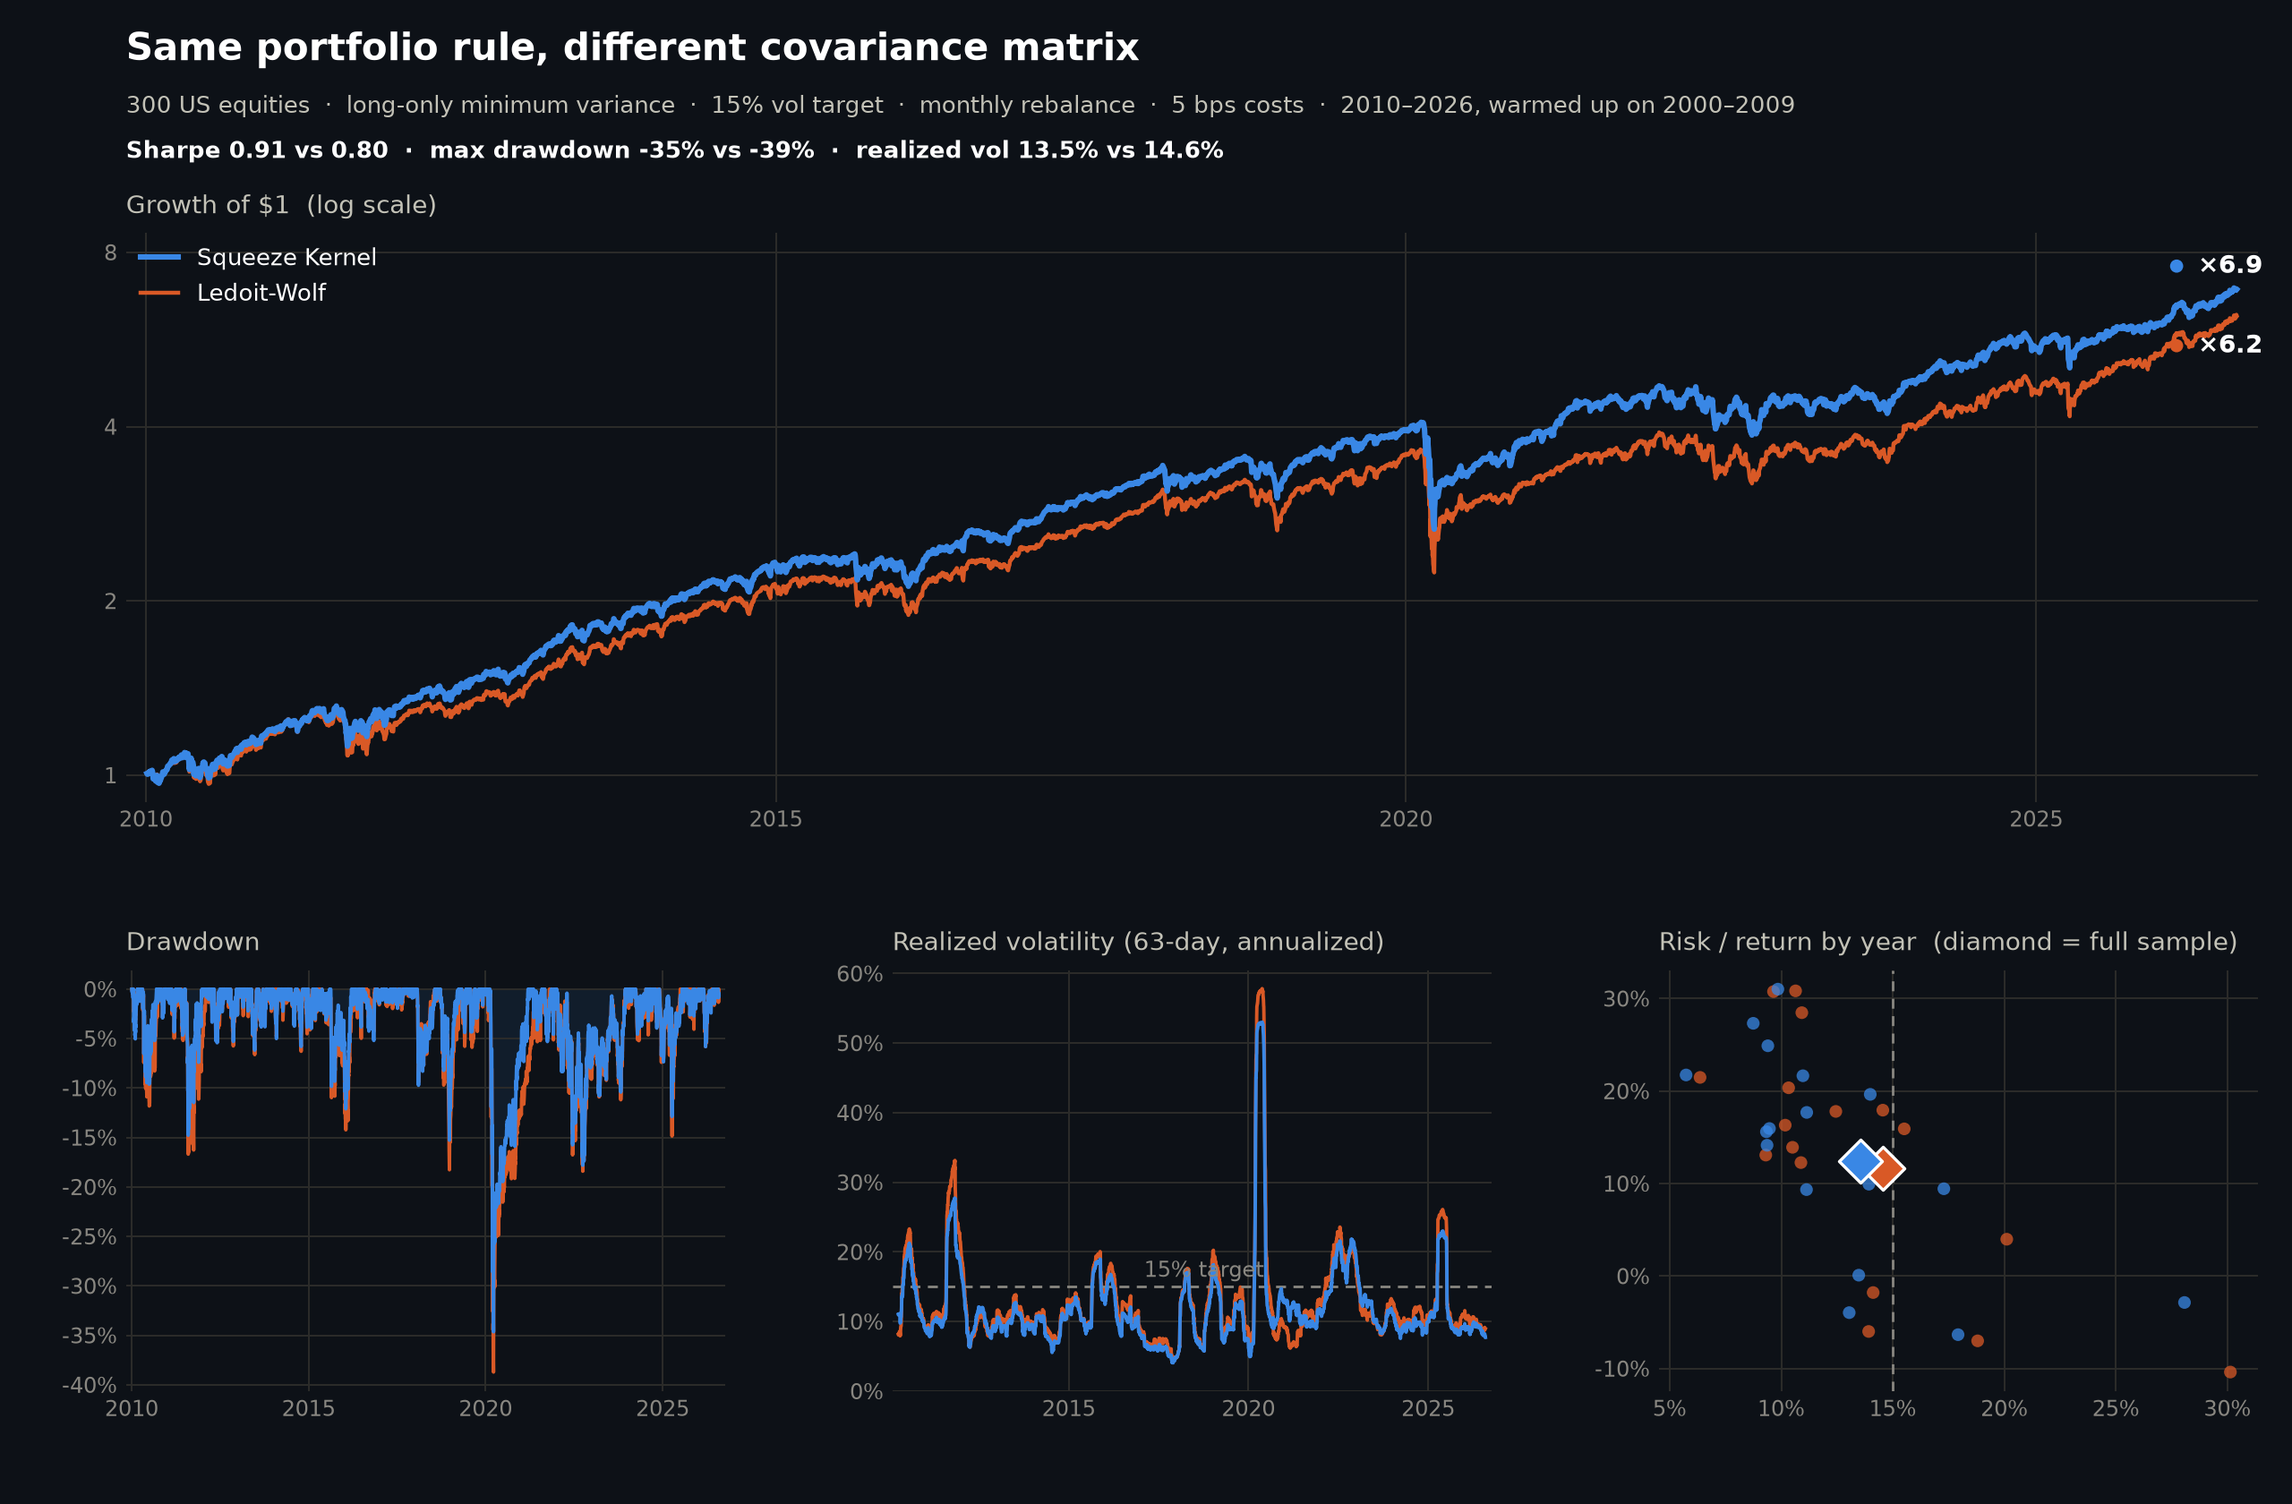
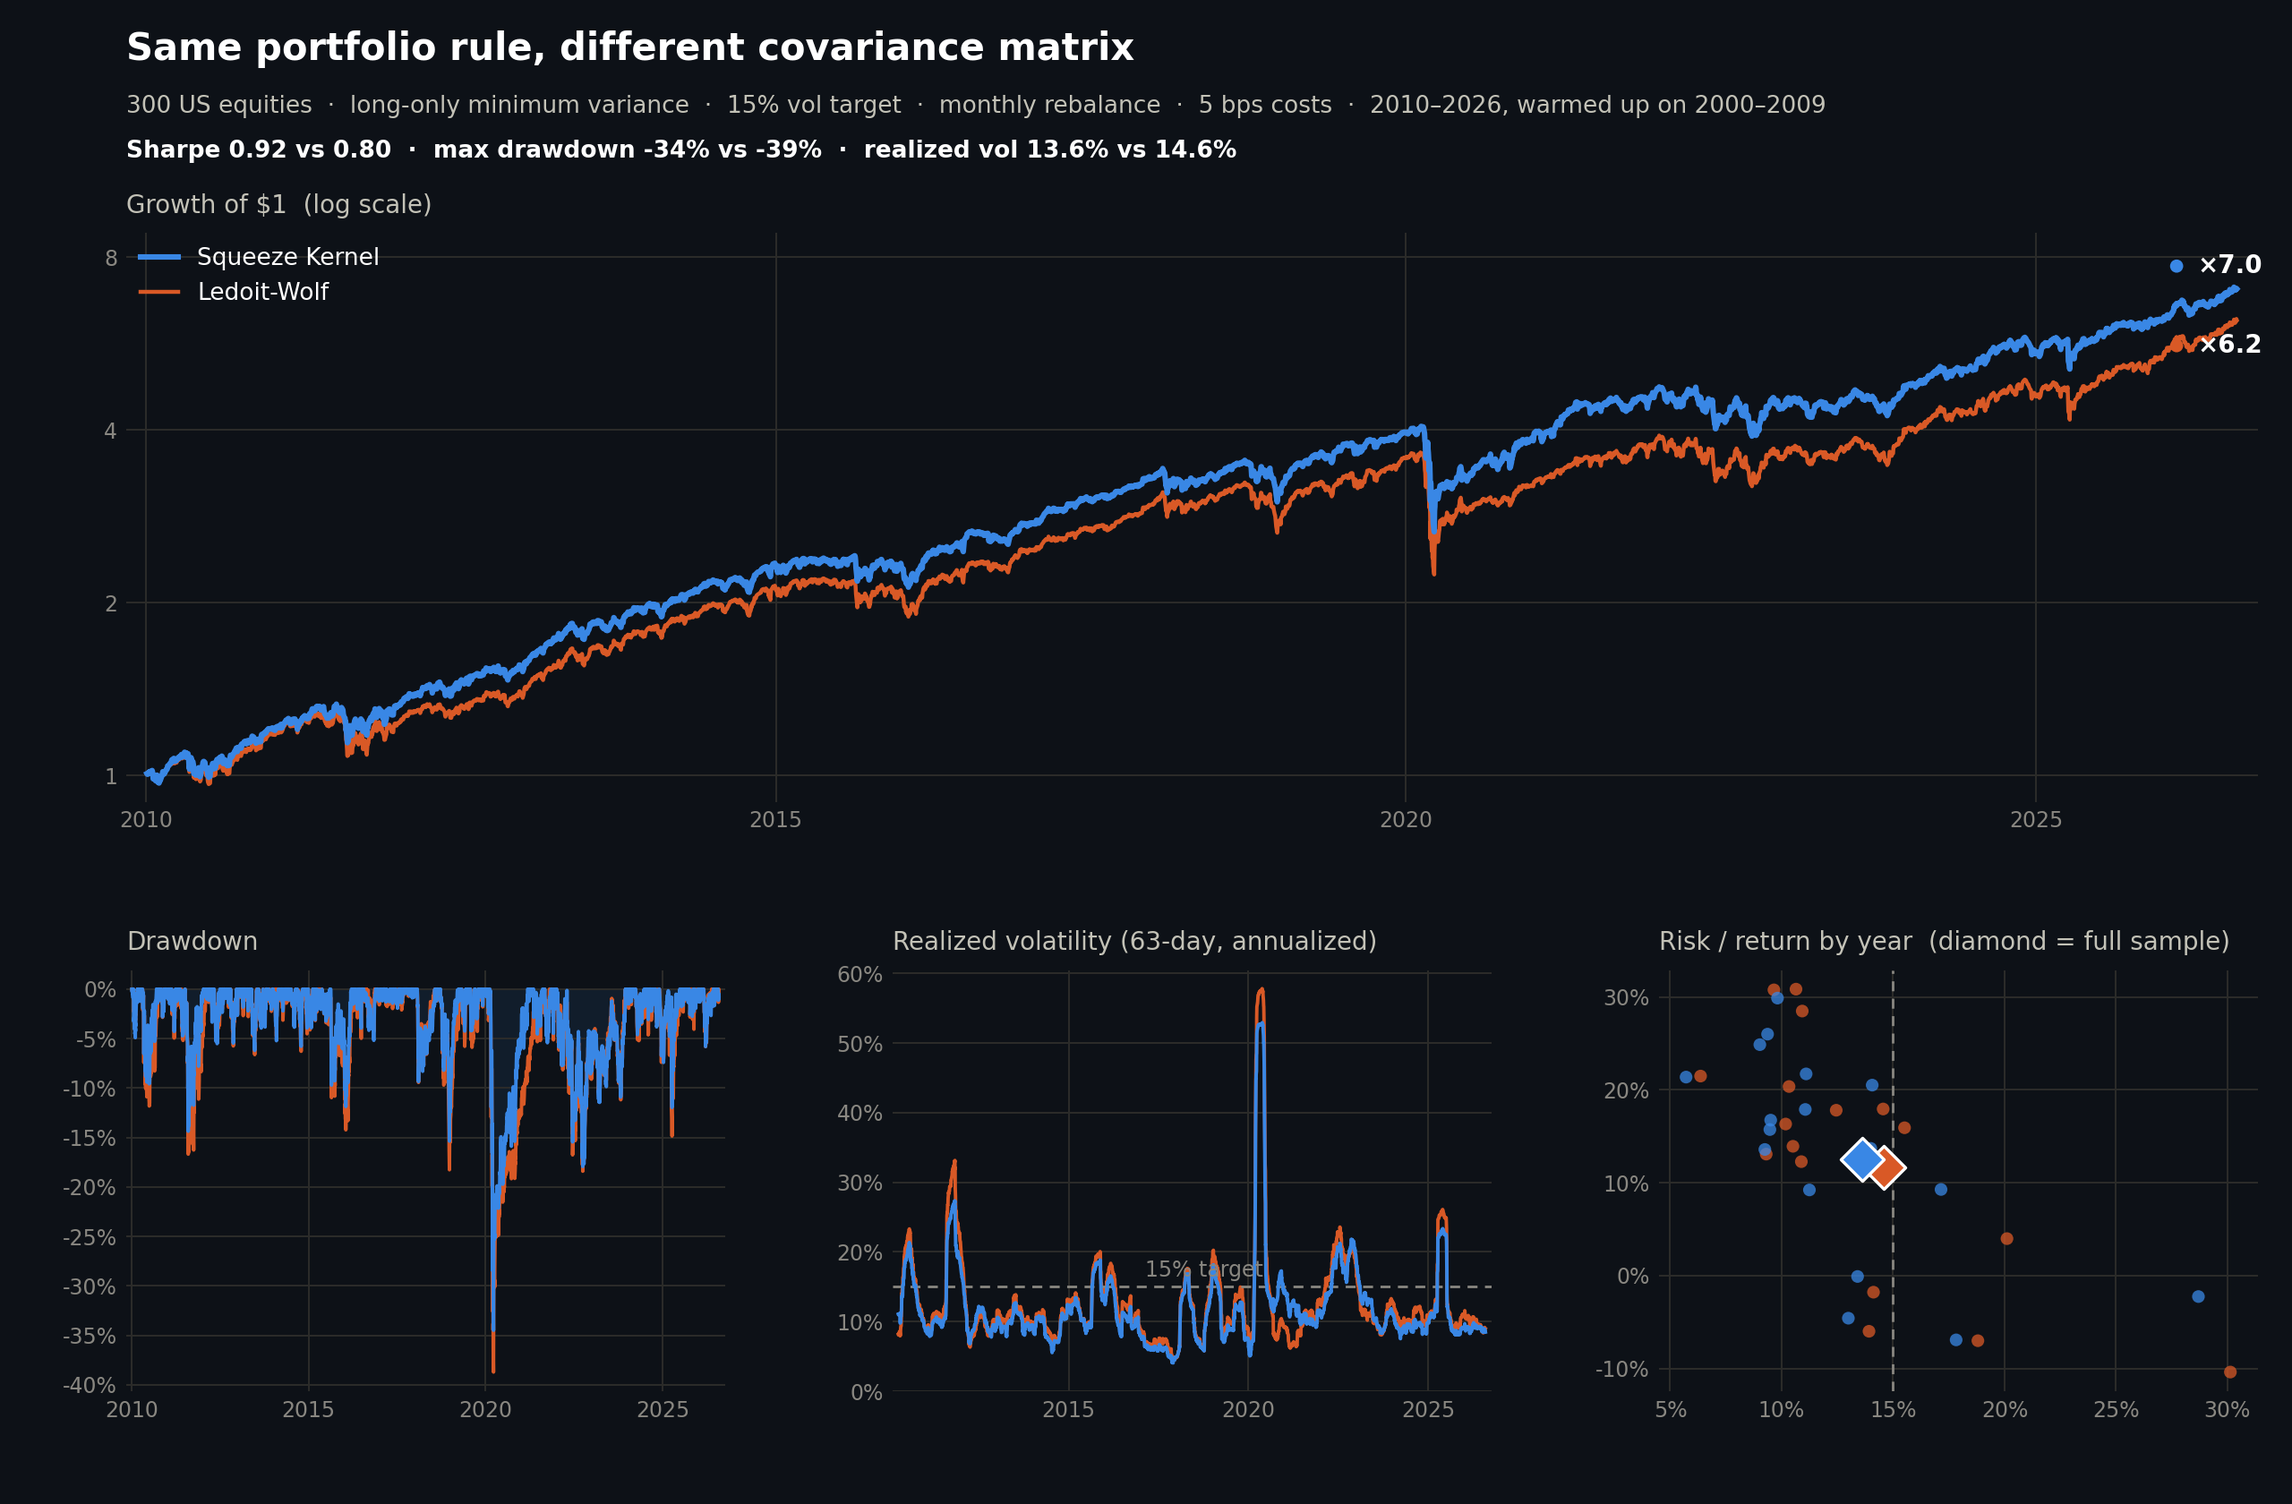
README: describe the 3.1 estimator; showcase regenerated on 3.1.1

diff --git a/README.md b/README.md
@@ -17,20 +17,20 @@ for r_t in returns:                  # NaN marks missing assets
 cov = sk.covariance()
 ```
 
-Reference: *"The Squeeze Kernel Covariance Estimator: Dual-Timescale Tracking with Adaptive Shrinkage"* (Kende, 2026) — [SSRN abstract 6455918](https://ssrn.com/abstract=6455918); the 2.0 estimator is described in the paper's current revision.
+Reference: Kende (2026), *The Squeeze Kernel Covariance Estimator* — [SSRN abstract 6455918](https://ssrn.com/abstract=6455918). The 3.x estimator is described in the paper's September 2026 revision, *The Squeeze Kernel Covariance Estimator: A Diagonal-Congruence Flow in Per-Asset Trading Time*.
 
 ## Why
 
 Markets do not keep calendar time. Following Mandelbrot, the estimator treats a panel as a collection of partially coupled markets, **each advancing on its own activity-driven clock** — and reads those clocks from the panel's own correlation structure, so a hot cluster (say precious metals and FX) advances its correlation state while an idle one (agriculture) does not, without anyone identifying a cluster. On those clocks it runs a single recursion that:
 
-- **is PSD at every step, structurally** — the correlation state evolves by a diagonal-congruence flow (a congruence plus a rank-one term); no eigenvalue clipping, no nearest-PSD repair, and no factorisation anywhere in the state update. (The adaptive timescale weights are the one exception: they read each timescale's predictive likelihood, which costs one Cholesky per timescale per day. Turn them off and the estimator is pure `O(Kn²)`.)
-- **learns in market time and forgets in calendar time** — observations enter with a saturating, self-studentising weight (no day counts more than one unit of trading time); memory decays at fixed per-day rates on a geometric ladder of three timescales `(lam⁴, lam, lam^¼)`. Pairs accrue covariance at the geometric mean of their two clock increments, which is the most positive semi-definiteness allows and exactly the Cauchy–Schwarz bound on how far two assets' clocks can overlap;
-- **regularises itself** — each timescale's shrinkage intensity is computed from two online statistics, the concentration `n/ν` (dimension per unit trading time) and the de-noised fraction of correlation dispersion the target explains; the target is the Hadamard square of the running correlation, which is exactly the correlation matrix of the *squared* returns (cluster-respecting, PSD by the Schur product theorem, and sign-blind by construction — the signs are carried by the unshrunk term);
-- **adapts its memory to regime breaks, in both stages** — the timescale mix moves by an exponentiated-gradient step on the *blend's* own log score (not on any single timescale's, which would select rather than blend), at a temperature calibrated so that uninformative evidence leaves the mix within a factor e of its prior; the marginal variance is tracked on its own three-rung ladder, two octaves below the correlation ladder, and pooled panel-wide by the same rule on saturated evidence, so one spike day cannot hand a stale rung weeks of weight. Nothing in either mixture is fitted: the ladders are derived from `lam`, the evidence memory is the fastest rung's, and the temperature is the null's;
+- **is PSD at every step, structurally** — the correlation state evolves by a diagonal-congruence flow (a congruence plus a rank-one term); no eigenvalue clipping, no nearest-PSD repair, and no factorisation anywhere in the state update. (The adaptive mixture is the one exception: it reads the gradient of the blend's own log score, which costs one Cholesky factorisation of the blend and a positive-definiteness check of each timescale's block per day. Switch it off on `SqueezeKernelEstimator` and the estimator is pure `O(Kn²)`.)
+- **learns in market time and forgets in calendar time** — observations enter with a saturating, self-studentising weight (no day counts more than one unit of trading time); memory decays at fixed per-day rates on a geometric ladder of three timescales `(lam⁴, lam, lam^¼)`. Pairs accrue covariance at the geometric mean of their two clock increments, which is the most positive semi-definiteness allows and exactly the Cauchy–Schwarz bound on how far two assets' clocks can overlap. In closed form, each timescale's correlation is that of an exponentially weighted Gram matrix of the clock-weighted returns `√w·z`: day `s` enters the pair `(i, j)` with weight `√(w_i,s·w_j,s)` (market time) and is discounted by `lam_k^(t−s)` (calendar time). That makes it the natural-gradient step of the Gaussian log score, taken as a chord in calendar time on clock-weighted data; the geodesic along the same gradient would be an unbounded time change;
+- **regularises itself** — each timescale's shrinkage intensity is computed from two online statistics, the concentration `n/ν` (dimension per unit trading time) and the de-noised fraction of correlation dispersion the target explains; the target is the Hadamard square of the running correlation, which is exactly the correlation matrix of the *squared* returns (cluster-respecting, PSD by the Schur product theorem, and sign-blind by construction — the signs are carried by the unshrunk term). The intensity rule is the *prior* of a learned split: each timescale's shrunk correlation is a pool of its raw correlation, its equicorrelation level and its Hadamard square, whose weights are pulled toward the rule's `(1−α, α(1−α), α²)` by a fixed share and corrected online by the blend gradient;
+- **adapts its memory to regime breaks, in both stages** — the timescale mix moves by an exponentiated-gradient step on the *blend's* own log score (not on any single timescale's, which would select rather than blend): each weight follows the Fisher–Rao inner product of its timescale with the day's natural gradient, at a temperature calibrated so that uninformative evidence leaves the mix within a factor e of its prior; the marginal variance is tracked on its own three-rung ladder, two octaves below the correlation ladder, and pooled panel-wide by the same rule on saturated evidence, so one spike day cannot hand a stale rung weeks of weight. Nothing in either mixture is fitted: the ladders are derived from `lam`, the evidence memory is the fastest rung's, and the temperature is the null's;
 - **ingests missing values natively** — listings, delistings, halts enter as `NaN`;
-- **is fast** — one Cholesky and one triangular solve per day; a thirty-year daily pass at n=300 runs in about two minutes single-threaded, well under daily rolling-window refits.
+- **is cheap, with no solver** — `O(Kn²)` state work plus `K + 1` Cholesky factorisations a day, no iterative optimisation anywhere; a thirty-year daily pass at n = 300 takes about two minutes single-threaded (3.1.1 skips the spectral floor of the scored blend on the days its inverse certifies it inactive; output bit-identical to 3.1.0). CM-IEWMA as released by its authors takes 11–41 times as long on the same panels, most of it a daily convex programme that is infeasible on up to 19% of days at n = 300; DCC and DCC-NL are cheaper still.
 
-**Evidence.** On thirty years of S&P 500 constituents against an eleven-method field (EWMA, DCC, Ledoit–Wolf, OAS, nonlinear shrinkage, RMT filtering, Gerber, IEWMA, CM-IEWMA, and the published v1 estimator) it leads at every universe size from 50 to 300 and is the **sole member of the 90% model confidence set at every size**. Carried **zero-shot** to a diversified panel of 121 futures across eight asset classes it beats the same field *calibrated on that panel's own history* — matched-backbone IEWMA by 6.9 NLL/day (p = 4·10⁻⁴), calibrated DCC by 17.9 — out-of-time.
+**Evidence.** On thirty years of S&P 500 constituents against a ten-method field, every baseline fitted on a tuning block (EWMA, DCC, DCC-NL, Ledoit–Wolf, OAS, nonlinear shrinkage, RMT filtering, Gerber, IEWMA, CM-IEWMA), it leads at every universe size from 50 to 300 and is the **sole member of the 90% model confidence set at every size**. Frozen on data to 2021, it leads the best baseline on 2022–2026 by 1.8, 3.4, 10.7 and 18.2 NLL per day at n = 50, 100, 200 and 300, and it is first on twelve pre-registered universes of small and mid caps sealed before any scoring. Carried **zero-shot** to a diversified panel of 121 futures across eight asset classes it beats the five baselines that run there, *calibrated on that panel's own history*, by 11.8 to 122 NLL per day out-of-time; on the public FF49 industry panel of Johansson et al. it has the lowest regret on their own metric.
 
 ## See the difference
 
@@ -43,7 +43,7 @@ A passive strategy any allocator would recognize: long-only minimum-variance ove
 
 | Method | CAGR | Vol | Sharpe | MaxDD | Calmar | Vol-target RMSE |
 |---|---|---|---|---|---|---|
-| **Squeeze Kernel (default)** | **12.4%** | **13.5%** | **0.91** | **-34.6%** | **0.36** | **7.10%** |
+| **Squeeze Kernel (default)** | **12.5%** | **13.6%** | **0.92** | **-34.5%** | **0.36** | **7.05%** |
 | Ledoit-Wolf (252d) | 11.7% | 14.6% | 0.80 | -38.7% | 0.30 | 7.51% |
 
 Reproduce from the repo alone (the 300-stock panel ships as a parquet; survivorship and provenance are documented in the script):
@@ -57,7 +57,7 @@ python examples/vol_targeted_portfolio.py    # ~2 minutes
 
 ```bash
 pip install squeeze-kernel          # NumPy only
-pip install "squeeze-kernel[full]"  # + SciPy (faster detector factorisations)
+pip install "squeeze-kernel[full]"  # + SciPy (faster Cholesky factorisations for the mixture)
 ```
 
 ## Quickstart
@@ -80,6 +80,8 @@ cov_path, corr_path, weights = estimate_squeeze_cov(returns, with_weights=True)
 
 Missing values: pass `NaN` (or `mask=` on `update`). Newly listed, delisted or halted assets need no imputation and no complete-case subsetting.
 
+Units: pass returns in decimal units (`0.01` = 1%). The numerical floors are absolute (`ε = 1e-8` in squared-return units), so percent-unit returns give a different path. A panel whose first day carries many exact-zero returns starts with a transient that the slow timescale remembers; start a day later.
+
 ## What derives from `lam`
 
 | quantity | value |
@@ -88,15 +90,16 @@ Missing values: pass `NaN` (or `mask=` on `update`). Newly listed, delisted or h
 | kernel scale | state: `κ_t = ⅓ · EWMA(activity)` at the anchor rate |
 | shrinkage intensity | per timescale, `α = min(1,c) · g̃²/(g̃² + (1−g̃)²·max(0, 1/c − 1))` from the online concentration `c = n/ν` and target-fit `g̃` |
 | timescale weights | prior ∝ √h, moved by exponentiated gradient on the blend log score at the null temperature, fast-rung memory |
+| shrinkage split | per timescale, a learned pool of the raw correlation, its equicorrelation level and its Hadamard square; prior `(1−α, α(1−α), α²)`, moved by the blend gradient |
 | volatility memory | ladder `(h/16, h/4, h)`, pooled panel-wide by the same rule on tanh-saturated evidence, uniform prior |
-| structural constants | K=3, b=4, θ=½, κ-scale ⅓, Schur power 2 — each bracketed by ablation in the paper |
-| fitted constants | none (the 2.x volatility clock `λ_v = 0.98` is replaced by the ladder above) |
+| structural constants | K=3, b=4, θ=½, κ-scale ⅓, Schur power 2, intensity exponent 2 — each bracketed by ablation in the paper |
+| fitted constants | `lam` itself (0.996, chosen on data to 2021); nothing else is fitted |
 
-`from squeeze_kernel import CONSTANTS` exposes the structural constants for research. The published v1 estimator (all its knobs) remains available as `SqueezeKernelEstimator` / `SqueezeKernel.v1(...)`; every 2.0 mechanism is also an estimator-level switch for ablation. See [MIGRATION.md](MIGRATION.md).
+`from squeeze_kernel import CONSTANTS` exposes the structural constants for research. The published v1 estimator (all its knobs) remains available as `SqueezeKernelEstimator` / `SqueezeKernel.v1(...)`; every mechanism since 2.0 is also an estimator-level switch for ablation. See [MIGRATION.md](MIGRATION.md).
 
 ## How it works
 
-One daily update: variance on a three-rung ladder per asset, pooled by panel-wide self-adapting weights → standardised surprise → per-asset clock increments from the Schur-square-weighted neighbourhood mean of squared surprises → diagonal-congruence update of each timescale's correlation state on those clocks → per-timescale shrinkage as a learned pool of the raw correlation, its equicorrelation level and its Hadamard square, with the self-tuning intensity rule as the prior and the blend gradient as the correction → blend across timescales, moved by the gradient of the blend's own log score → covariance. The paper gives the derivations, guarantees (PSD, conditioning floor, exact reductions to the published special cases), and the full evaluation.
+One daily update: variance on a three-rung ladder per asset, pooled by panel-wide self-adapting weights → standardised surprise → per-asset clock increments from the Schur-square-weighted neighbourhood mean of squared surprises → diagonal-congruence update of each timescale's correlation state on those clocks → per-timescale shrinkage as a learned pool of the raw correlation, its equicorrelation level and its Hadamard square, with the self-tuning intensity rule as the prior and the blend gradient as the correction → blend across timescales, moved by the gradient of the blend's own log score → covariance. The paper gives the derivations (the natural-gradient and Gram-matrix forms of the flow, the Fisher–Rao form of the mixture), the guarantees (PSD, conditioning floor, exact reductions to the published special cases), and the full evaluation.
 
 ## Development
 
